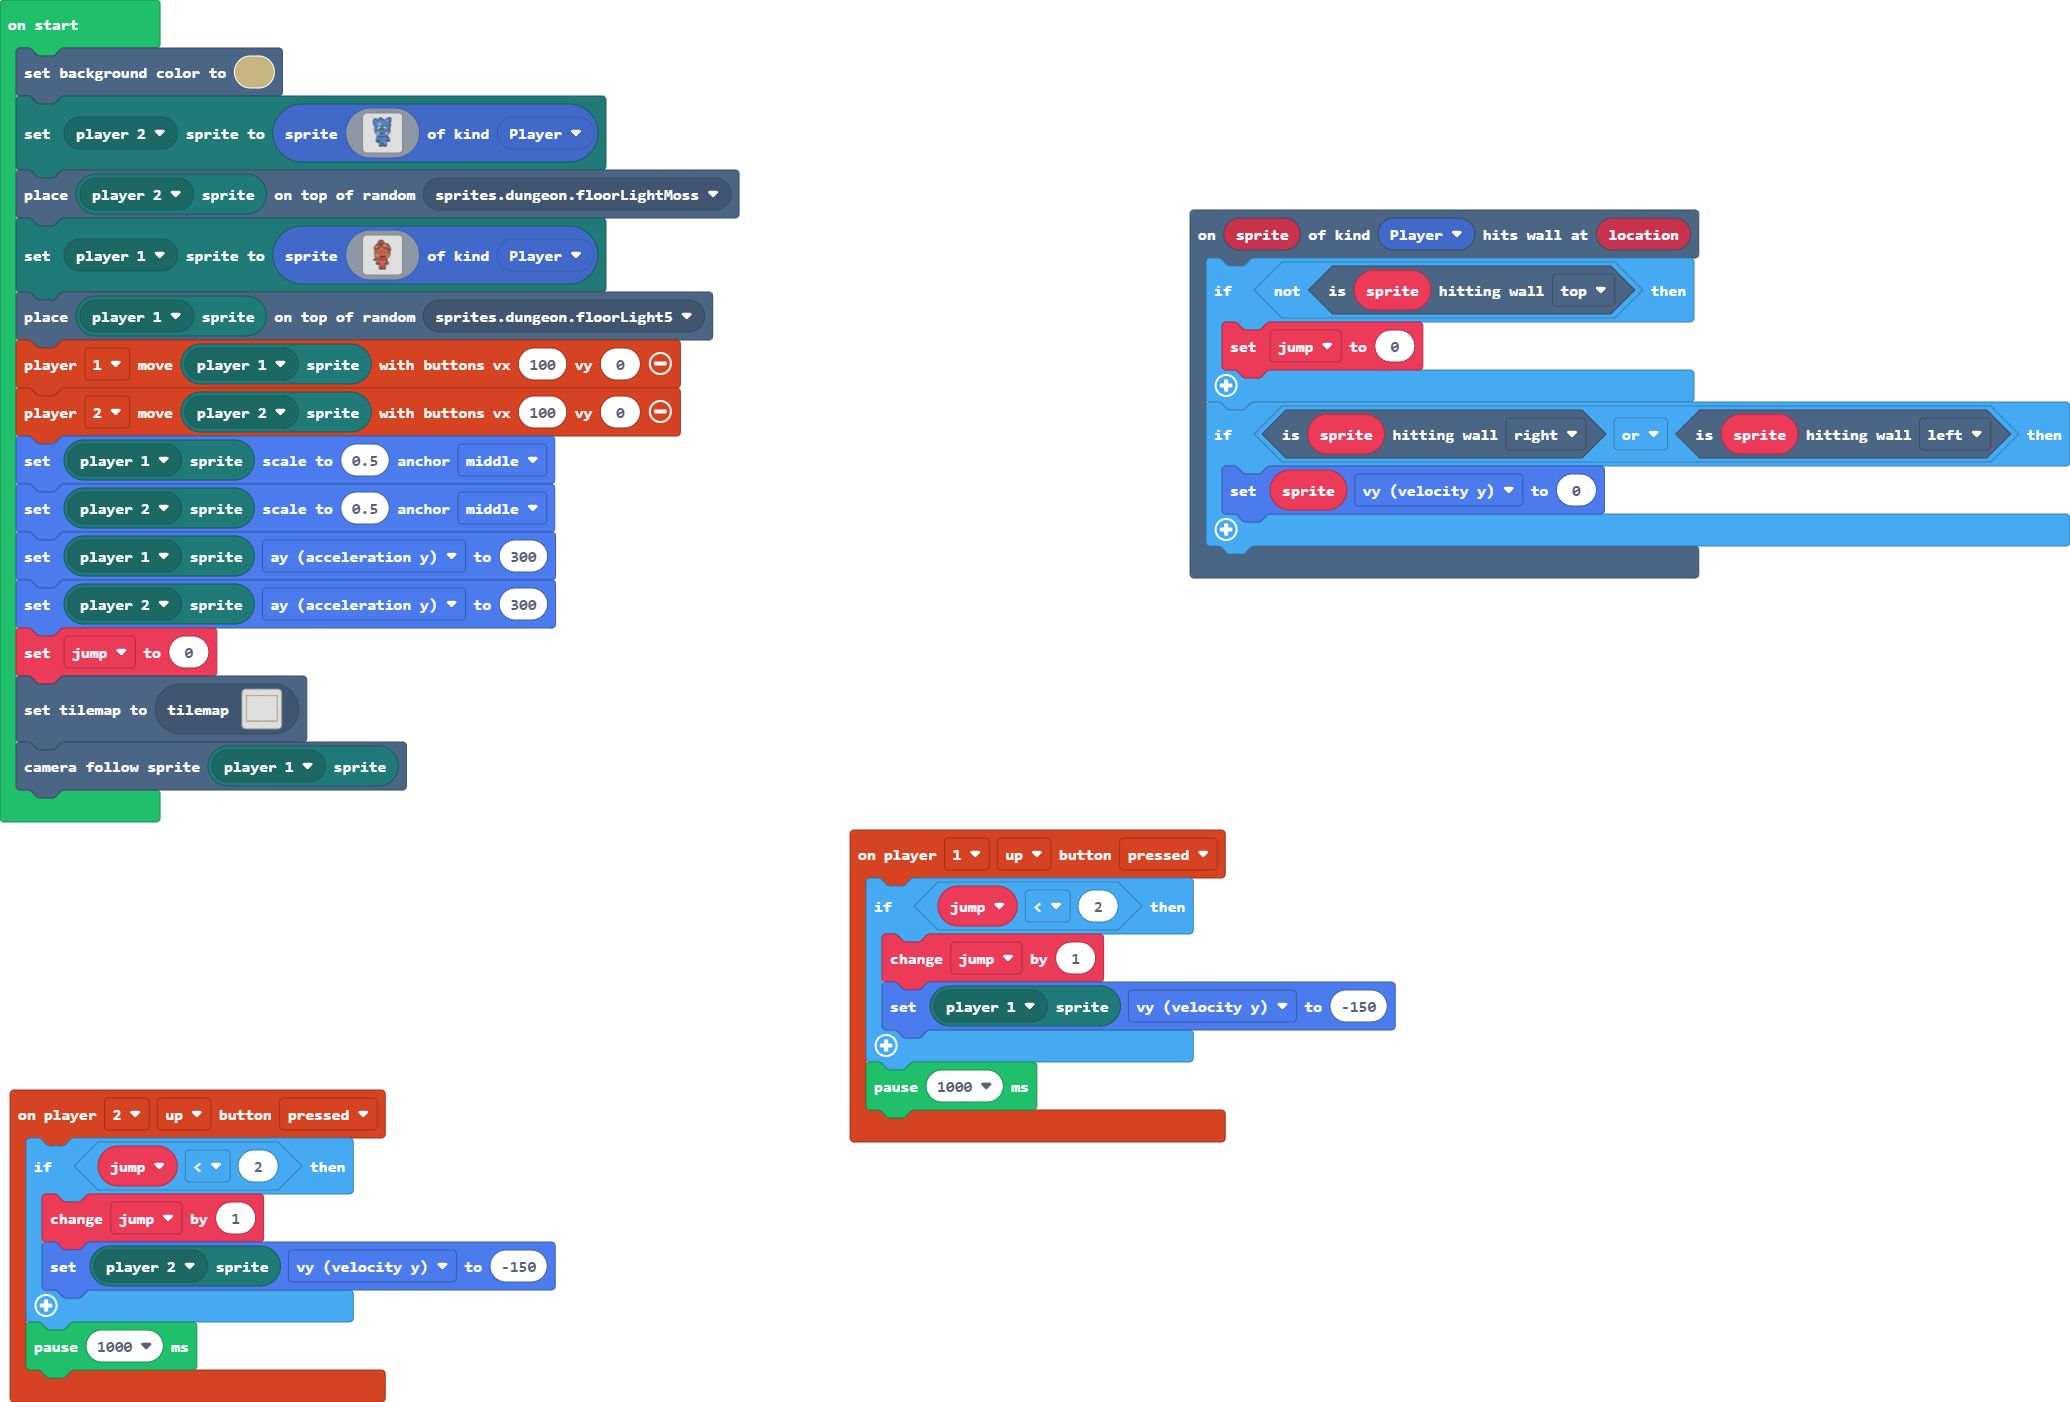
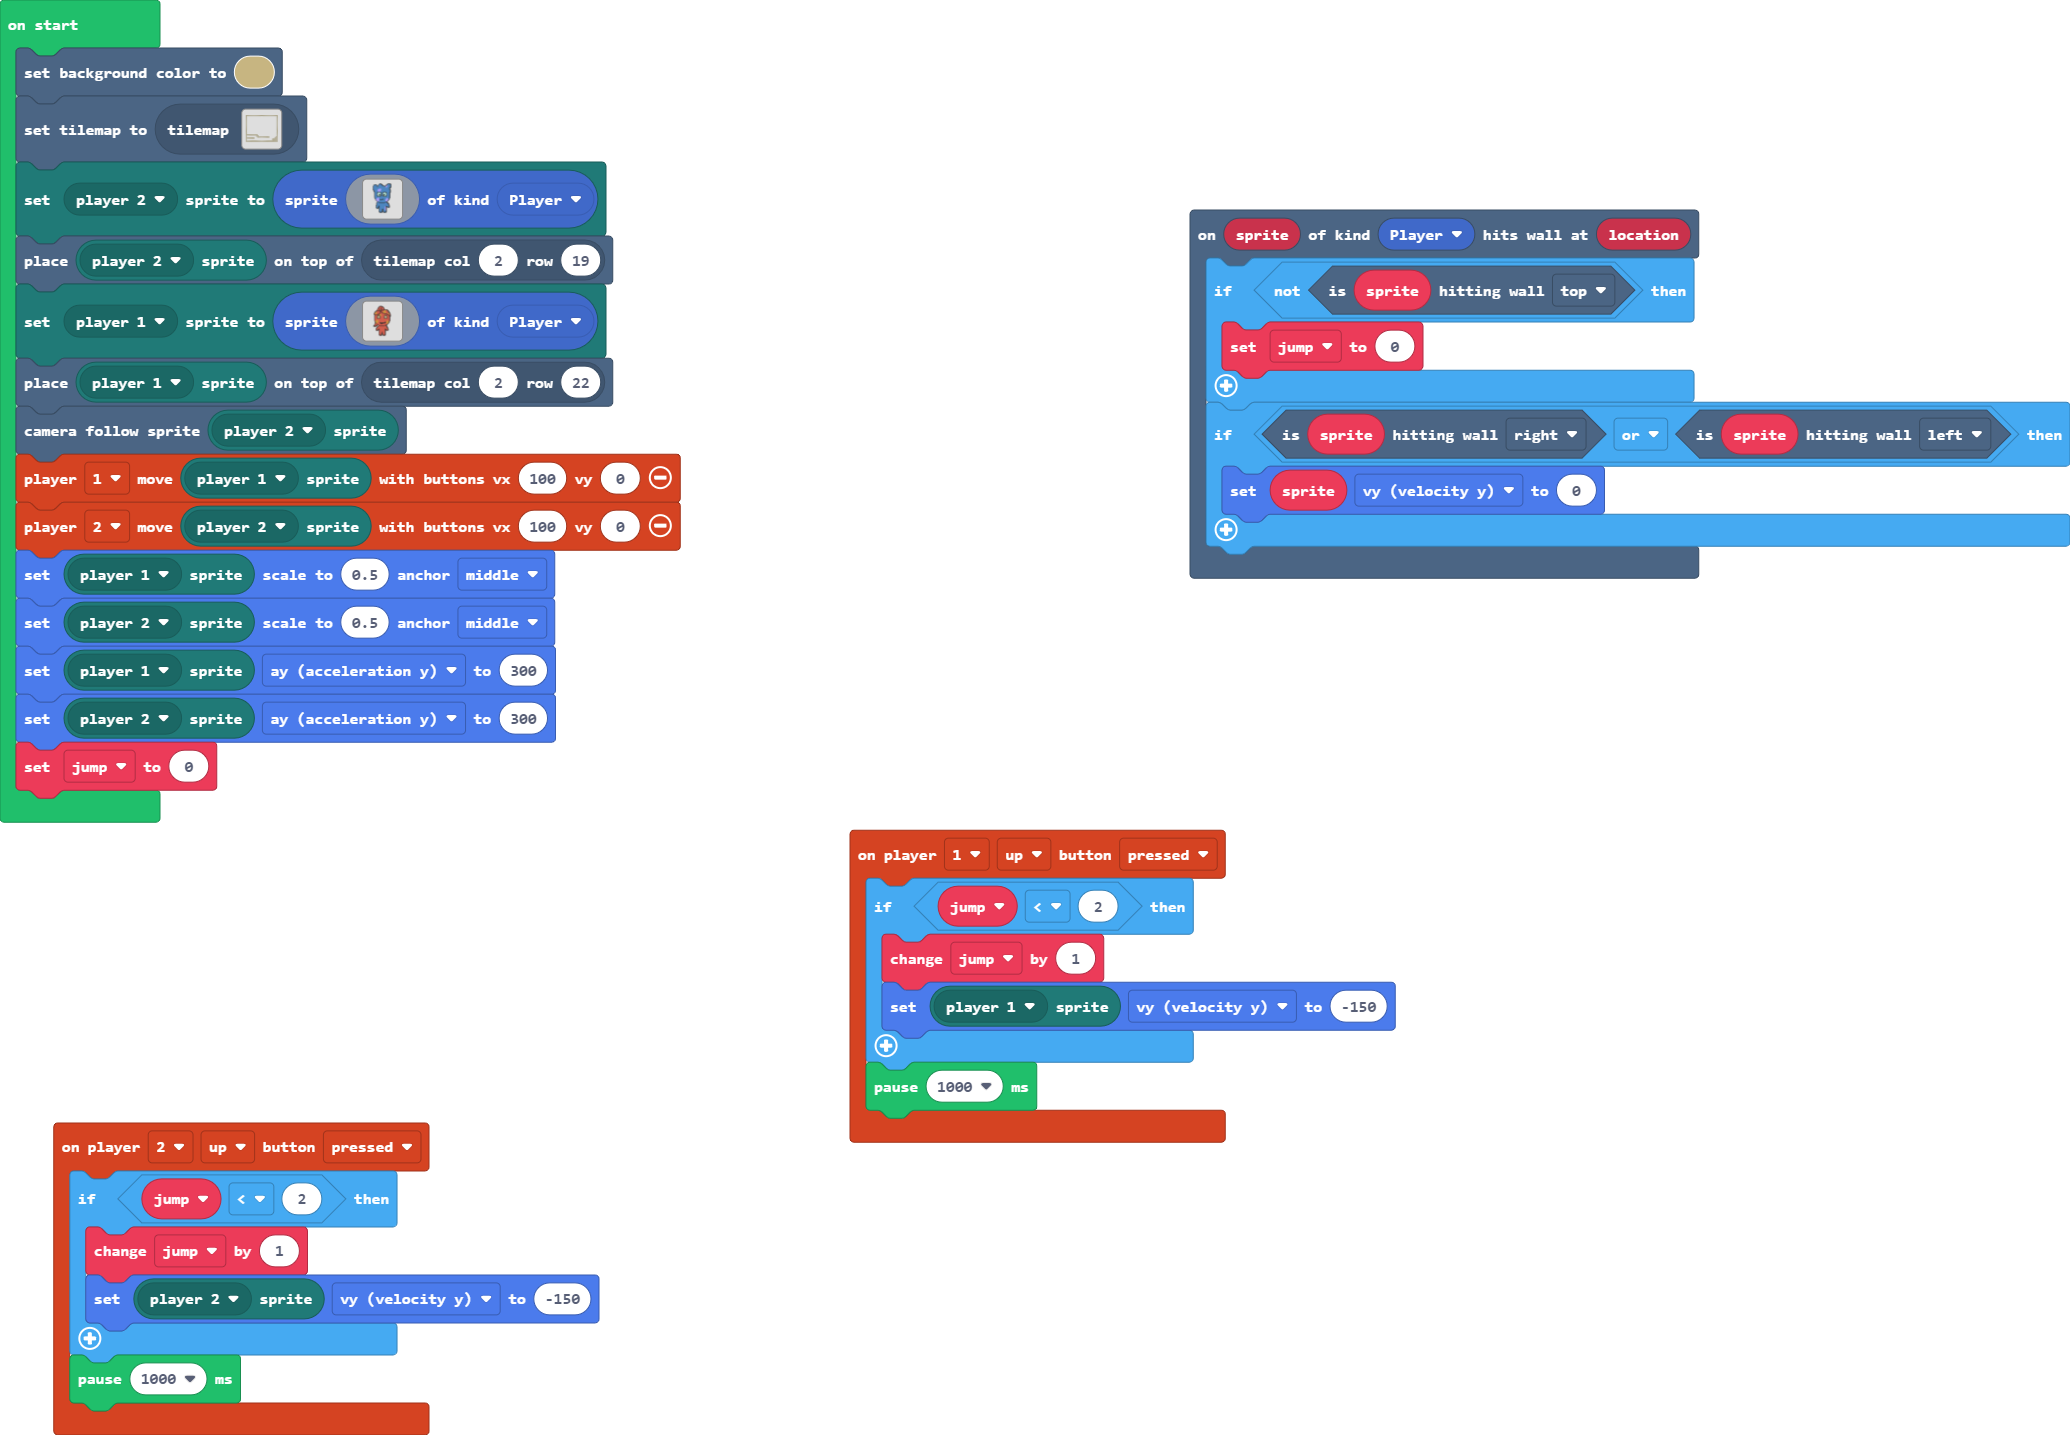
Update pxt.json, main.blocks, main.ts, tilemap.g.jres, tilemap.g.ts

diff --git a/tilemap.g.ts b/tilemap.g.ts
@@ -39,7 +39,7 @@ namespace myTiles {
 ....................
 `, [myTiles.transparency16], TileScale.Sixteen);
             case "level2":
[2 lines of base64/hex data omitted]
 222222222222222222222222222222
 2............................2
 2............................2
@@ -58,14 +58,52 @@ namespace myTiles {
 2............................2
 2............................2
 2............................2
-2............................2
-2............................2
-2............................2
-2............................2
-2............................2
-2............................2
+22222222222..................2
+2.........22.................2
+2..........22222222222......22
+22222222...................222
+2........................22222
+2........................22222
 222222222222222222222222222222
 `, [myTiles.transparency16,sprites.dungeon.floorLight0], TileScale.Sixteen);
+            case "level3":
+            case "level3":return tiles.createTilemap(hex`1000100000000000000000000000000000000000000000000000000000000000000000000000000000000000000000000000000000000000000000000000000000000000000000000000000000000000000000000000000000000000000000000000000000000000000000000000000000000000000000000000000000000000000000000000000000000000000000000000000000000000000000000000000000000000000000000000000000000000000000000000000000000000000000000000000000000000000000000000000000000000000000000000000000000000000000000000000000000000000000000000000000000000000000000000000000000000`, img`
+. . . . . . . . . . . . . . . . 
+. . . . . . . . . . . . . . . . 
+. . . . . . . . . . . . . . . . 
+. . . . . . . . . . . . . . . . 
+. . . . . . . . . . . . . . . . 
+. . . . . . . . . . . . . . . . 
+. . . . . . . . . . . . . . . . 
+. . . . . . . . . . . . . . . . 
+. . . . . . . . . . . . . . . . 
+. . . . . . . . . . . . . . . . 
+. . . . . . . . . . . . . . . . 
+. . . . . . . . . . . . . . . . 
+. . . . . . . . . . . . . . . . 
+. . . . . . . . . . . . . . . . 
+. . . . . . . . . . . . . . . . 
+. . . . . . . . . . . . . . . . 
+`, [myTiles.transparency16], TileScale.Sixteen);
+            case "level4":
+            case "level4":return tiles.createTilemap(hex`1000100000000000000000000000000000000000000000000000000000000000000000000000000000000000000000000000000000000000000000000000000000000000000000000000000000000000000000000000000000000000000000000000000000000000000000000000000000000000000000000000000000000000000000000000000000000000000000000000000000000000000000000000000000000000000000000000000000000000000000000000000000000000000000000000000000000000000000000000000000000000000000000000000000000000000000000000000000000000000000000000000000000000000000000000000000000000`, img`
+. . . . . . . . . . . . . . . . 
+. . . . . . . . . . . . . . . . 
+. . . . . . . . . . . . . . . . 
+. . . . . . . . . . . . . . . . 
+. . . . . . . . . . . . . . . . 
+. . . . . . . . . . . . . . . . 
+. . . . . . . . . . . . . . . . 
+. . . . . . . . . . . . . . . . 
+. . . . . . . . . . . . . . . . 
+. . . . . . . . . . . . . . . . 
+. . . . . . . . . . . . . . . . 
+. . . . . . . . . . . . . . . . 
+. . . . . . . . . . . . . . . . 
+. . . . . . . . . . . . . . . . 
+. . . . . . . . . . . . . . . . 
+. . . . . . . . . . . . . . . . 
+`, [myTiles.transparency16], TileScale.Sixteen);
         }
         return null;
     })

diff --git a/main.ts b/main.ts
@@ -22,10 +22,12 @@ controller.player2.onButtonEvent(ControllerButton.Up, ControllerButtonEvent.Pres
 })
 let jump = 0
 scene.setBackgroundColor(13)
+tiles.setCurrentTilemap(tilemap`level2`)
 mp.setPlayerSprite(mp.playerSelector(mp.PlayerNumber.Two), sprites.create(assets.image`myImage1`, SpriteKind.Player))
-tiles.placeOnRandomTile(mp.getPlayerSprite(mp.playerSelector(mp.PlayerNumber.Two)), sprites.dungeon.floorLightMoss)
+tiles.placeOnTile(mp.getPlayerSprite(mp.playerSelector(mp.PlayerNumber.Two)), tiles.getTileLocation(2, 19))
 mp.setPlayerSprite(mp.playerSelector(mp.PlayerNumber.One), sprites.create(assets.image`myImage0`, SpriteKind.Player))
-tiles.placeOnRandomTile(mp.getPlayerSprite(mp.playerSelector(mp.PlayerNumber.One)), sprites.dungeon.floorLight5)
+tiles.placeOnTile(mp.getPlayerSprite(mp.playerSelector(mp.PlayerNumber.One)), tiles.getTileLocation(2, 22))
+scene.cameraFollowSprite(mp.getPlayerSprite(mp.playerSelector(mp.PlayerNumber.Two)))
 controller.player1.moveSprite(mp.getPlayerSprite(mp.playerSelector(mp.PlayerNumber.One)), 100, 0)
 controller.player2.moveSprite(mp.getPlayerSprite(mp.playerSelector(mp.PlayerNumber.Two)), 100, 0)
 mp.getPlayerSprite(mp.playerSelector(mp.PlayerNumber.One)).setScale(0.5, ScaleAnchor.Middle)
@@ -33,5 +35,3 @@ mp.getPlayerSprite(mp.playerSelector(mp.PlayerNumber.Two)).setScale(0.5, ScaleAn
 mp.getPlayerSprite(mp.playerSelector(mp.PlayerNumber.One)).ay = 300
 mp.getPlayerSprite(mp.playerSelector(mp.PlayerNumber.Two)).ay = 300
 jump = 0
-tiles.setCurrentTilemap(tilemap`level2`)
-scene.cameraFollowSprite(mp.getPlayerSprite(mp.playerSelector(mp.PlayerNumber.One)))
